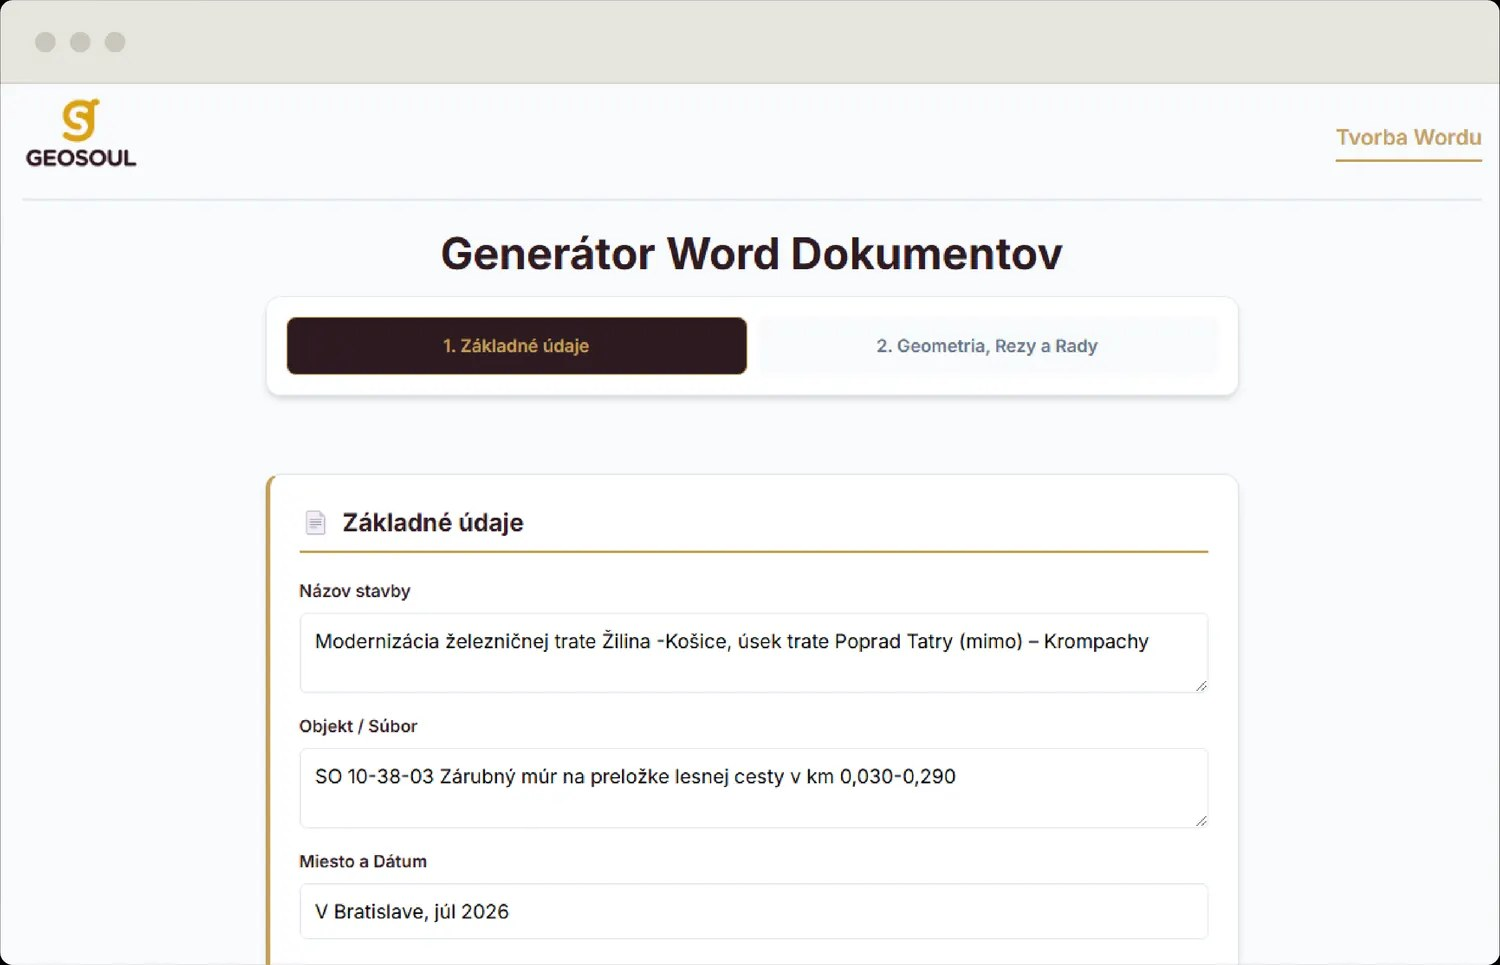
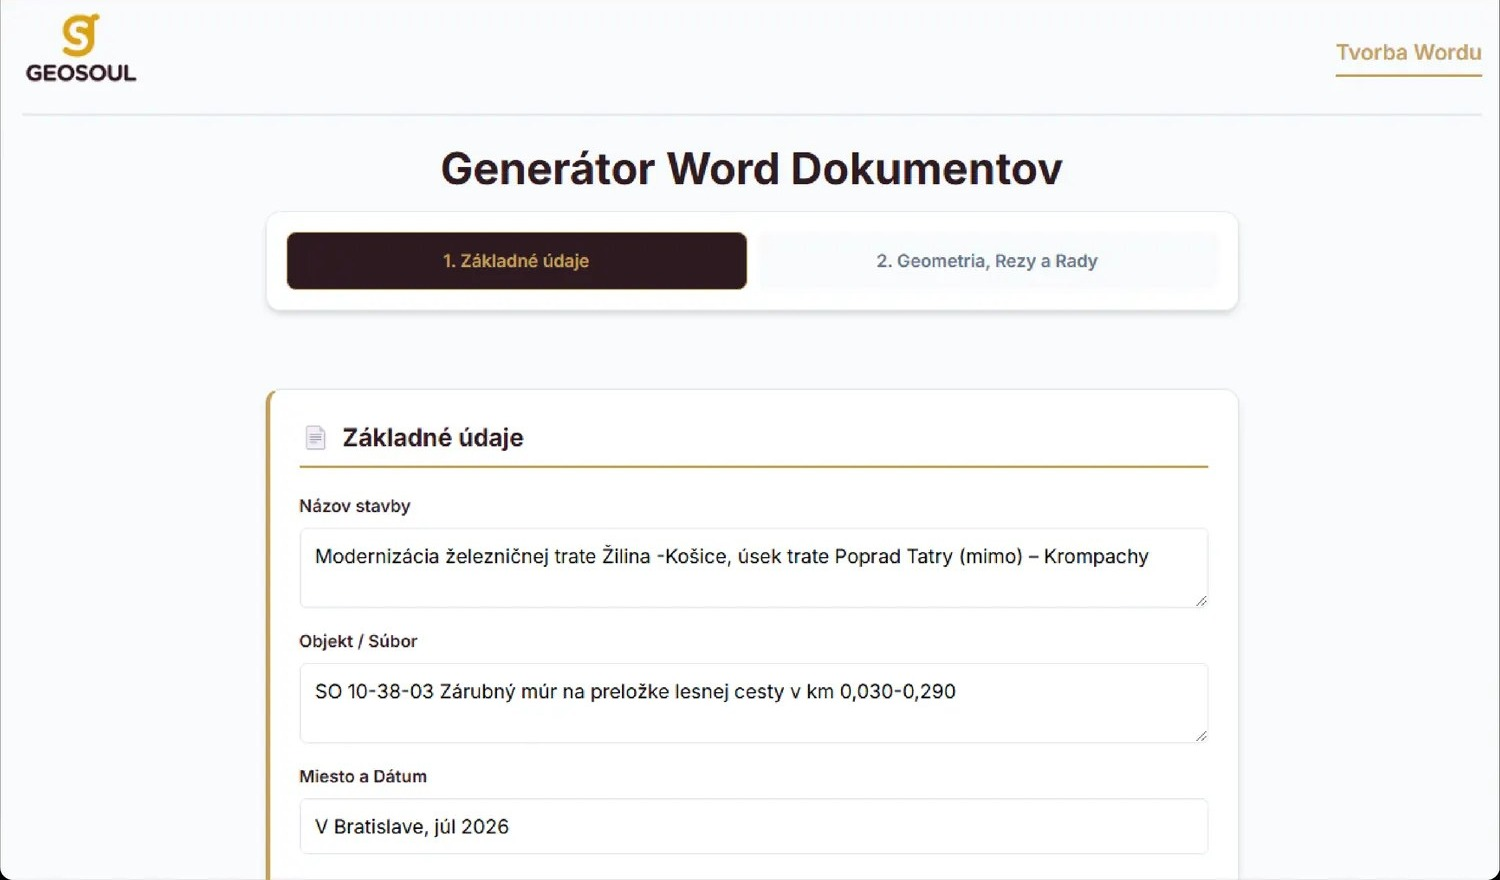
Unify portfolio screenshot window bars

diff --git a/components/Deck.tsx b/components/Deck.tsx
@@ -57,7 +57,7 @@ function Win({ img, bar, children }: { img?: string; bar?: boolean; children?: a
       {bar && (
         <div className="wbar"><i /><i /><i /></div>
       )}
-      {img && <img className="shot" src={`/portfolio/${img}.jpg`} alt="" style={{ objectPosition: img === 'hakom' ? 'center top' : 'left top', top: bar ? U(29) : 0, height: bar ? U(362) : '100%' }} />}
+      {img && <img className="shot" src={`/portfolio/${img}.jpg`} alt="" style={{ objectPosition: 'left top', top: bar ? U(29) : 0, height: bar ? U(362) : '100%' }} />}
       {children}
     </div>
   );
@@ -171,7 +171,7 @@ export default function Deck({ slides, lang, edit = false, deckId }: { slides: a
         {f.works.map((w, i) => (
           <Slide key={w.name} n={next()} dark>
             <CaseCol lab={w.tag} name={w.name} nameText={w.name} sub={w.sub} blocks={[{ label: f.ui.problem.toUpperCase(), text: w.problem }, { label: f.ui.solution.toUpperCase(), text: w.solution }]} />
-            <Win img={w.img} bar={w.img === 'upshift'} />
+            <Win img={w.img} bar />
             <Stats items={w.stats} />
           </Slide>
         ))}
